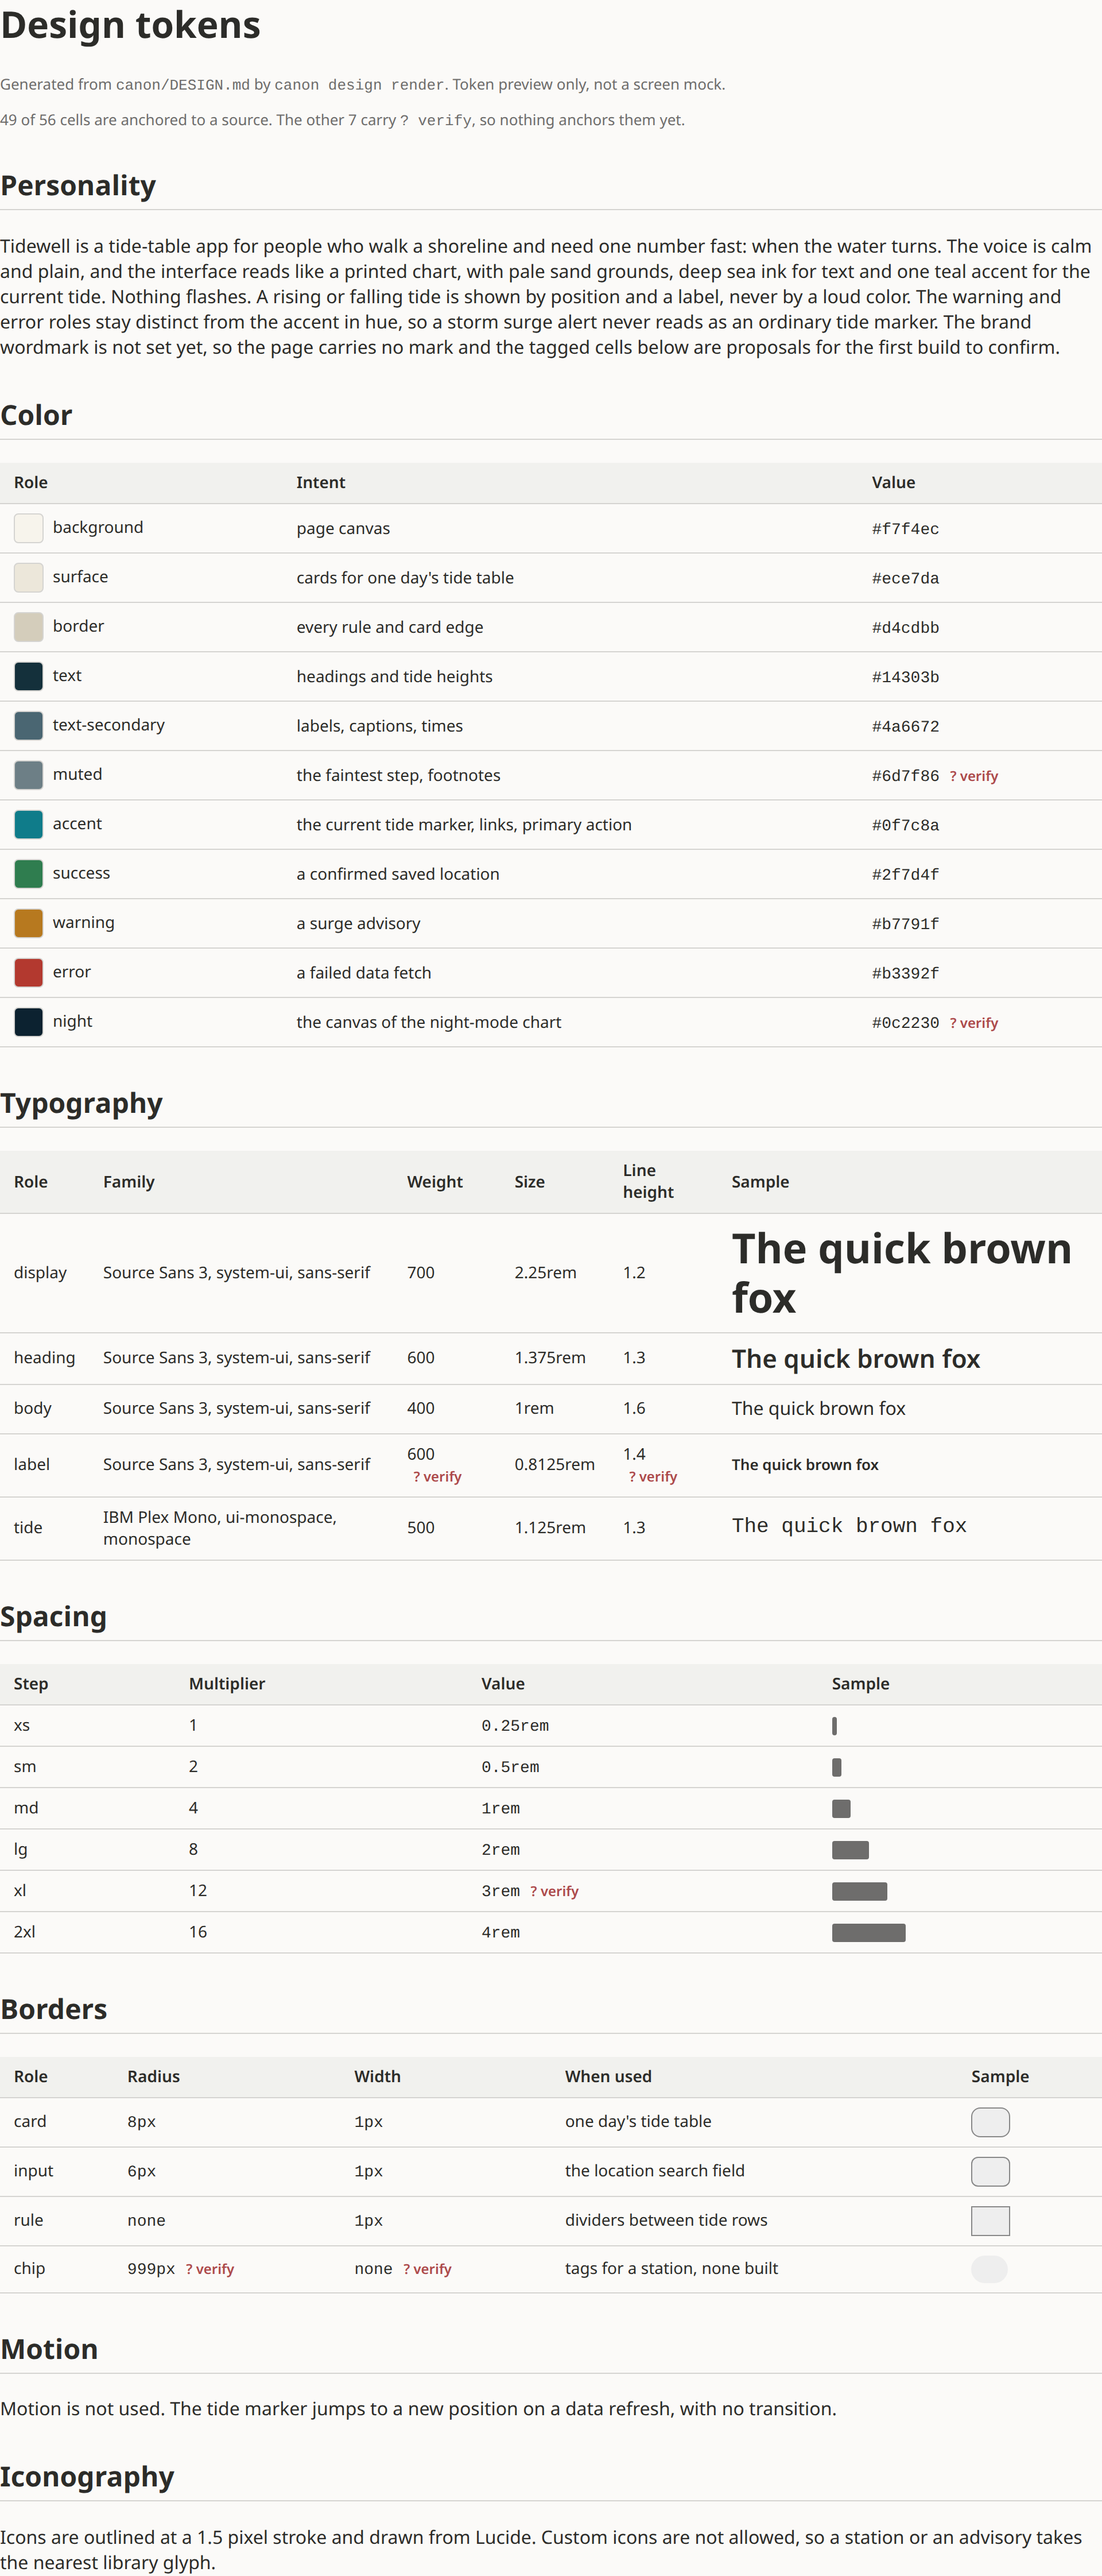
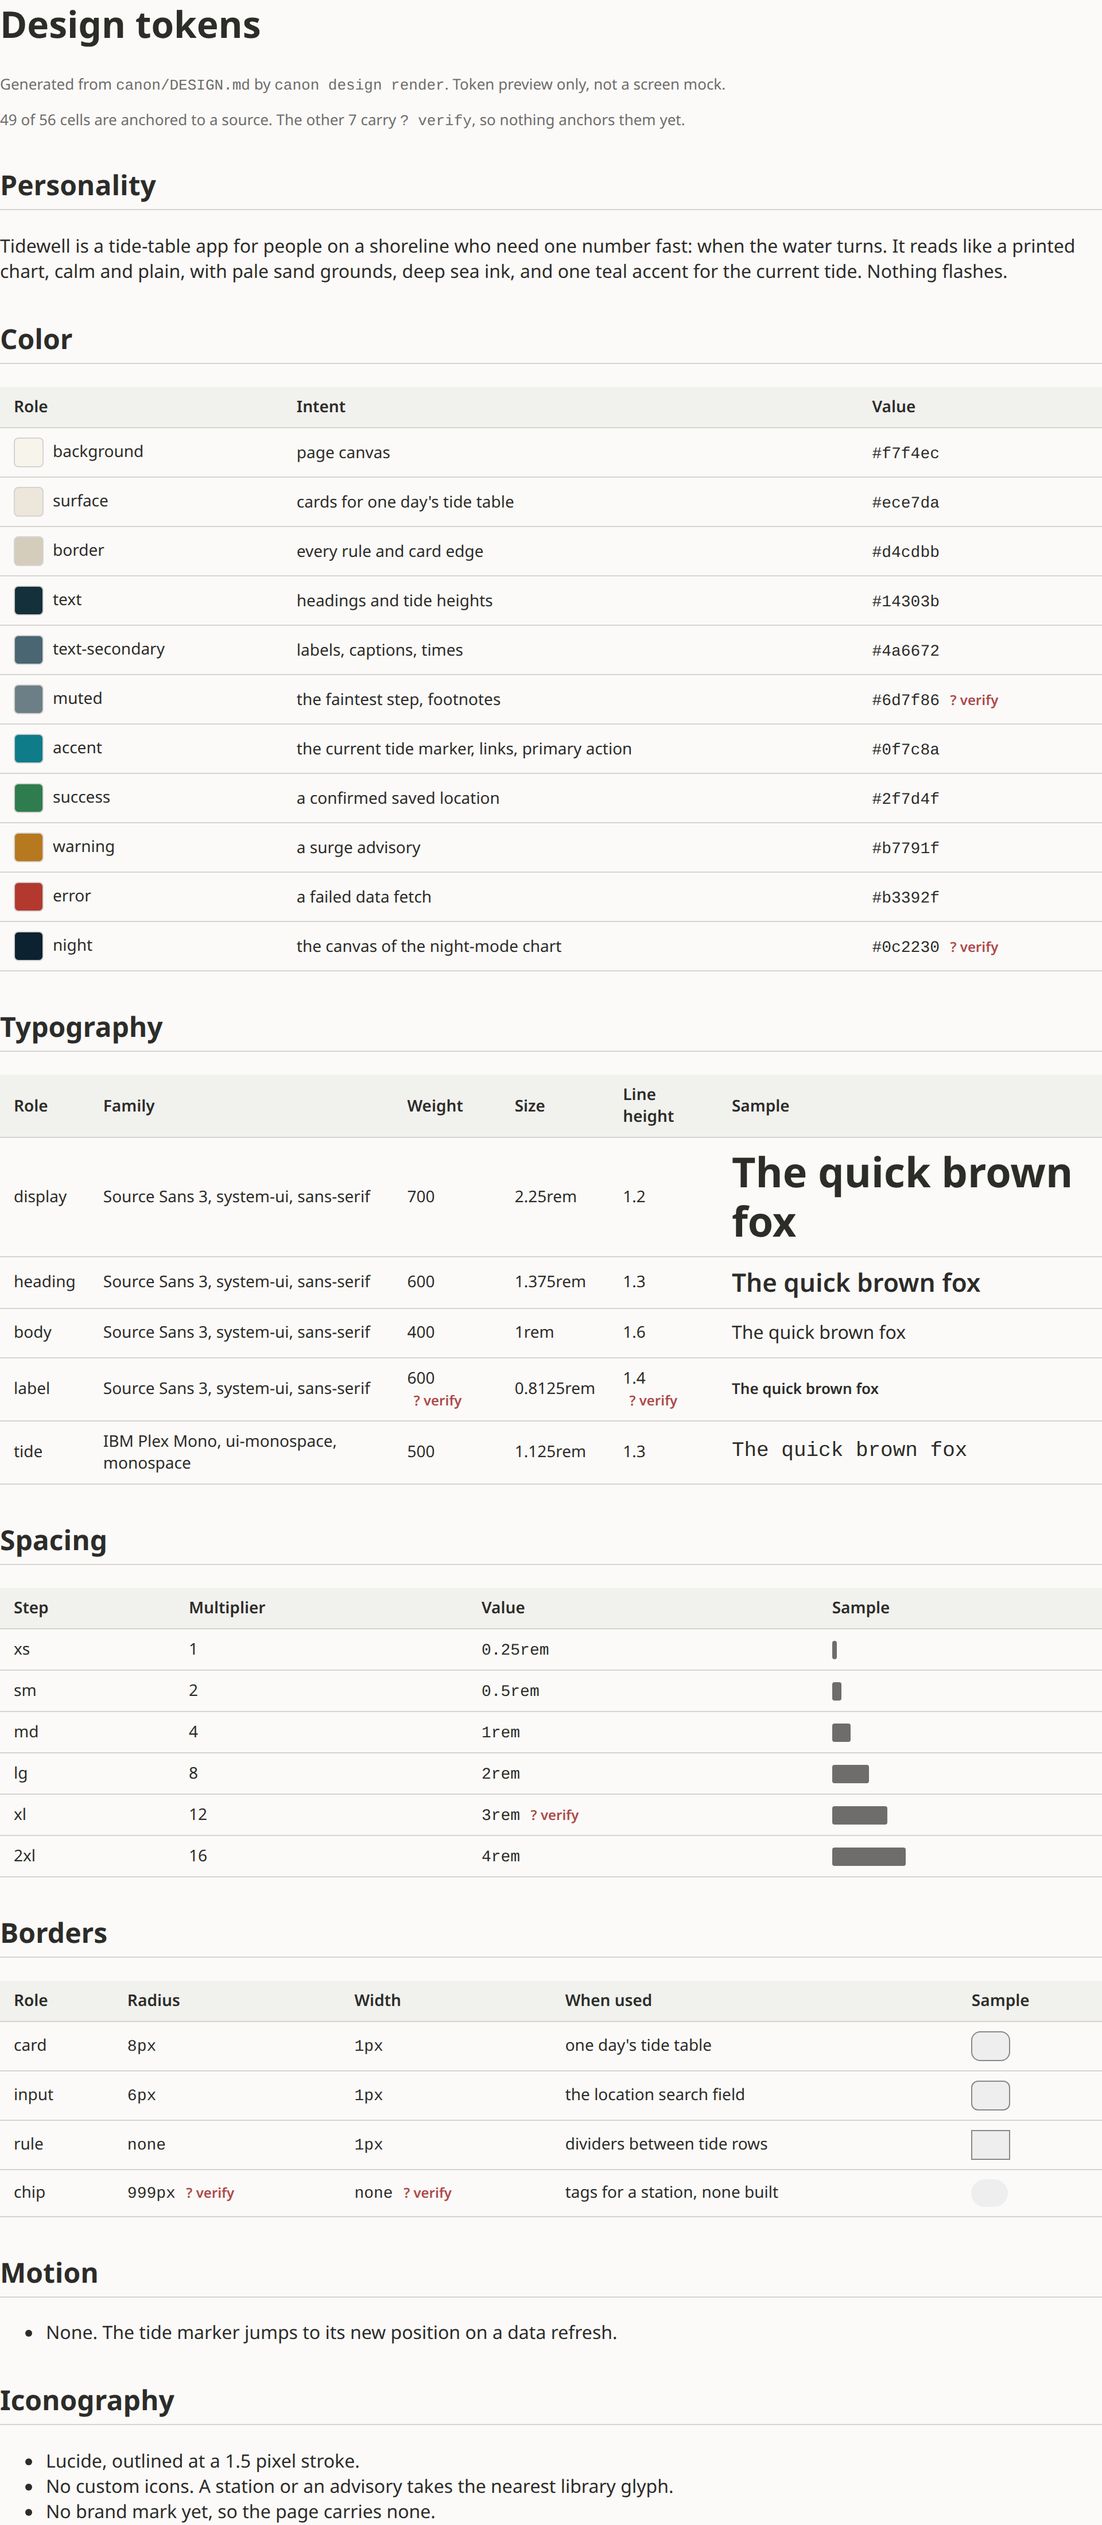
docs(examples): hold the worked design record to the prose budget

diff --git a/examples/design/DESIGN.md b/examples/design/DESIGN.md
@@ -2,13 +2,13 @@
 
 ## Personality
 
-Tidewell is a tide-table app for people who walk a shoreline and need one number fast: when the water turns. The voice is calm and plain, and the interface reads like a printed chart, with pale sand grounds, deep sea ink for text and one teal accent for the current tide. Nothing flashes. A rising or falling tide is shown by position and a label, never by a loud color.
-
-The warning and error roles stay distinct from the accent in hue, so a storm surge alert never reads as an ordinary tide marker. The brand wordmark is not set yet, so the page carries no mark and the tagged cells below are proposals for the first build to confirm.
+Tidewell is a tide-table app for people on a shoreline who need one number fast: when the water turns. It reads like a printed chart, calm and plain, with pale sand grounds, deep sea ink, and one teal accent for the current tide. Nothing flashes.
 
 ## Color
 
-Every text role is drawn on `background` and on `surface`.
+- Every text role is drawn on `background` and on `surface`.
+- `warning` and `error` stay apart from the accent in hue, so a surge alert never reads as a tide marker.
+- A rising or falling tide shows by position and a label, never by color.
 
 | Role           | Intent                                         | Value            |
 | -------------- | ---------------------------------------------- | ---------------- |
@@ -26,7 +26,9 @@ Every text role is drawn on `background` and on `surface`.
 
 ## Typography
 
-Two families carry the page. A humanist sans sets every role but `tide`, and a tabular monospace sets `tide` so heights align in a column. The render declares no face, so each Family cell names a stack a target replaces with its own faces.
+- A humanist sans sets every role but `tide`.
+- `tide` takes a tabular monospace so heights align in a column.
+- The render declares no face, so a target replaces each Family stack with its own.
 
 | Role    | Family                                 | Weight       | Size      | Line height  |
 | ------- | -------------------------------------- | ------------ | --------- | ------------ |
@@ -38,7 +40,7 @@ Two families carry the page. A humanist sans sets every role but `tide`, and a t
 
 ## Spacing
 
-Six steps run from a quarter rem to four. The first four double, and the last two add one rem each.
+- Six steps. The first four double, and the last two add one rem each.
 
 | Step | Multiplier | Value         |
 | ---- | ---------- | ------------- |
@@ -51,7 +53,7 @@ Six steps run from a quarter rem to four. The first four double, and the last tw
 
 ## Borders
 
-Every border is one pixel solid at the `border` role.
+- Every border is one pixel solid at the `border` role.
 
 | Role  | Radius         | Width         | When used                      |
 | ----- | -------------- | ------------- | ------------------------------ |
@@ -62,12 +64,16 @@ Every border is one pixel solid at the `border` role.
 
 ## Layout
 
-The page is one column up to 40rem, then two columns, a day list beside the chart. The chart never drops below 20rem wide, so the 320 pixel reflow floor scrolls the day list rather than the chart.
+- One column up to 40rem, then two: a day list beside the chart.
+- The chart never drops below 20rem wide.
+- At the 320 pixel reflow floor the day list scrolls, never the chart.
 
 ## Motion
 
-Motion is not used. The tide marker jumps to a new position on a data refresh, with no transition.
+- None. The tide marker jumps to its new position on a data refresh.
 
 ## Iconography
 
-Icons are outlined at a 1.5 pixel stroke and drawn from Lucide. Custom icons are not allowed, so a station or an advisory takes the nearest library glyph.
+- Lucide, outlined at a 1.5 pixel stroke.
+- No custom icons. A station or an advisory takes the nearest library glyph.
+- No brand mark yet, so the page carries none.
